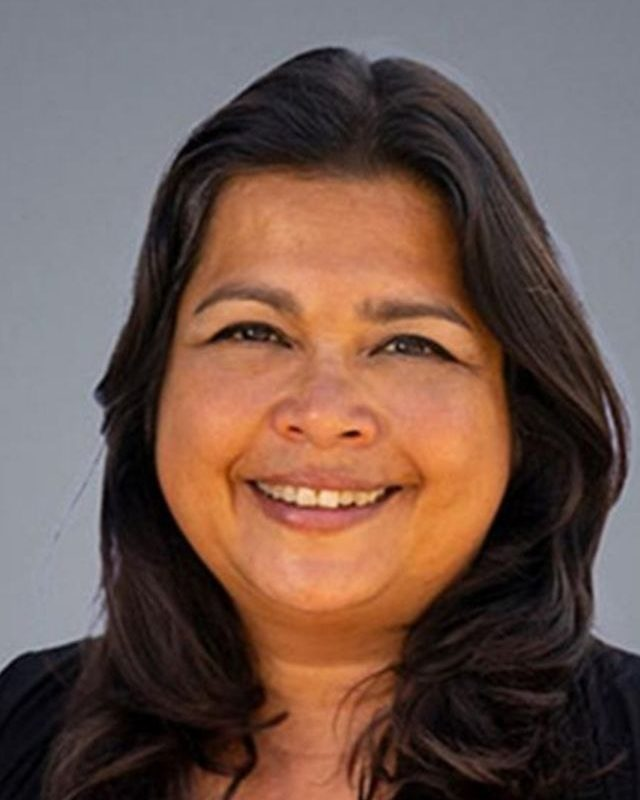
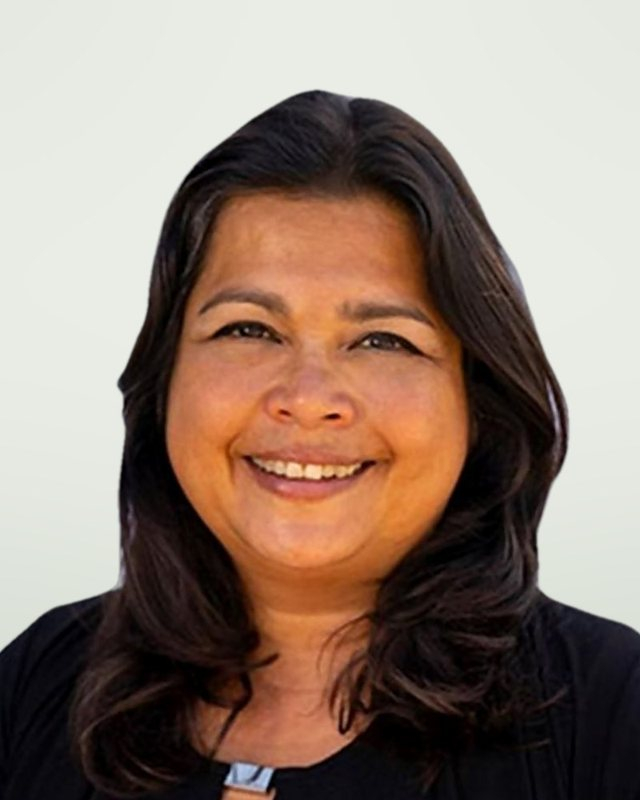
Team: Victor, Guy and Dora photos on one studio background, matched framing
Requested-by: Dora Bender (Telegram group)
Request: Put the approved team photos on the Team page (same background, matched size); not EMET's photo or bio

diff --git a/docs/team.html b/docs/team.html
@@ -10,7 +10,7 @@
 <link rel="preconnect" href="https://fonts.googleapis.com">
 <link rel="preconnect" href="https://fonts.gstatic.com" crossorigin>
 <link href="https://fonts.googleapis.com/css2?family=Source+Serif+4:wght@400;500&family=Inter:wght@400;500&family=IBM+Plex+Mono:wght@400;500&display=swap" rel="stylesheet">
-<link rel="stylesheet" href="site.css?v=team2">
+<link rel="stylesheet" href="site.css?v=team3">
 </head>
 <body>
 <header class="site-header">
@@ -41,7 +41,7 @@
 <section class="light-band">
   <div class="team-grid">
     <article class="member">
-      <div class="member-photo has-photo"><img src="team-victor-vorski.jpg" alt="Victor Vorski" width="640" height="800"></div>
+      <div class="member-photo has-photo"><img src="team-victor-vorski.jpg?v=studio1" alt="Victor Vorski" width="640" height="800"></div>
       <div class="member-body">
         <span class="member-role">Role &middot; soon</span>
         <h3>Victor Vorski</h3>
@@ -50,7 +50,7 @@
       </div>
     </article>
     <article class="member">
-      <div class="member-photo has-photo"><img src="team-guy-blat.jpg" alt="Guy Blat" width="640" height="800"></div>
+      <div class="member-photo has-photo"><img src="team-guy-blat.jpg?v=studio1" alt="Guy Blat" width="640" height="800"></div>
       <div class="member-body">
         <span class="member-role">Data &amp; Technology &middot; Systems</span>
         <h3>Guy Blat</h3>
@@ -64,7 +64,7 @@
       </div>
     </article>
     <article class="member">
-      <div class="member-photo has-photo"><img src="team-dora-bender.jpg" alt="Dora Bender" width="640" height="800"></div>
+      <div class="member-photo has-photo"><img src="team-dora-bender.jpg?v=studio1" alt="Dora Bender" width="640" height="800"></div>
       <div class="member-body">
         <span class="member-role">Community &middot; Partnerships</span>
         <h3>Dora Bender</h3>
